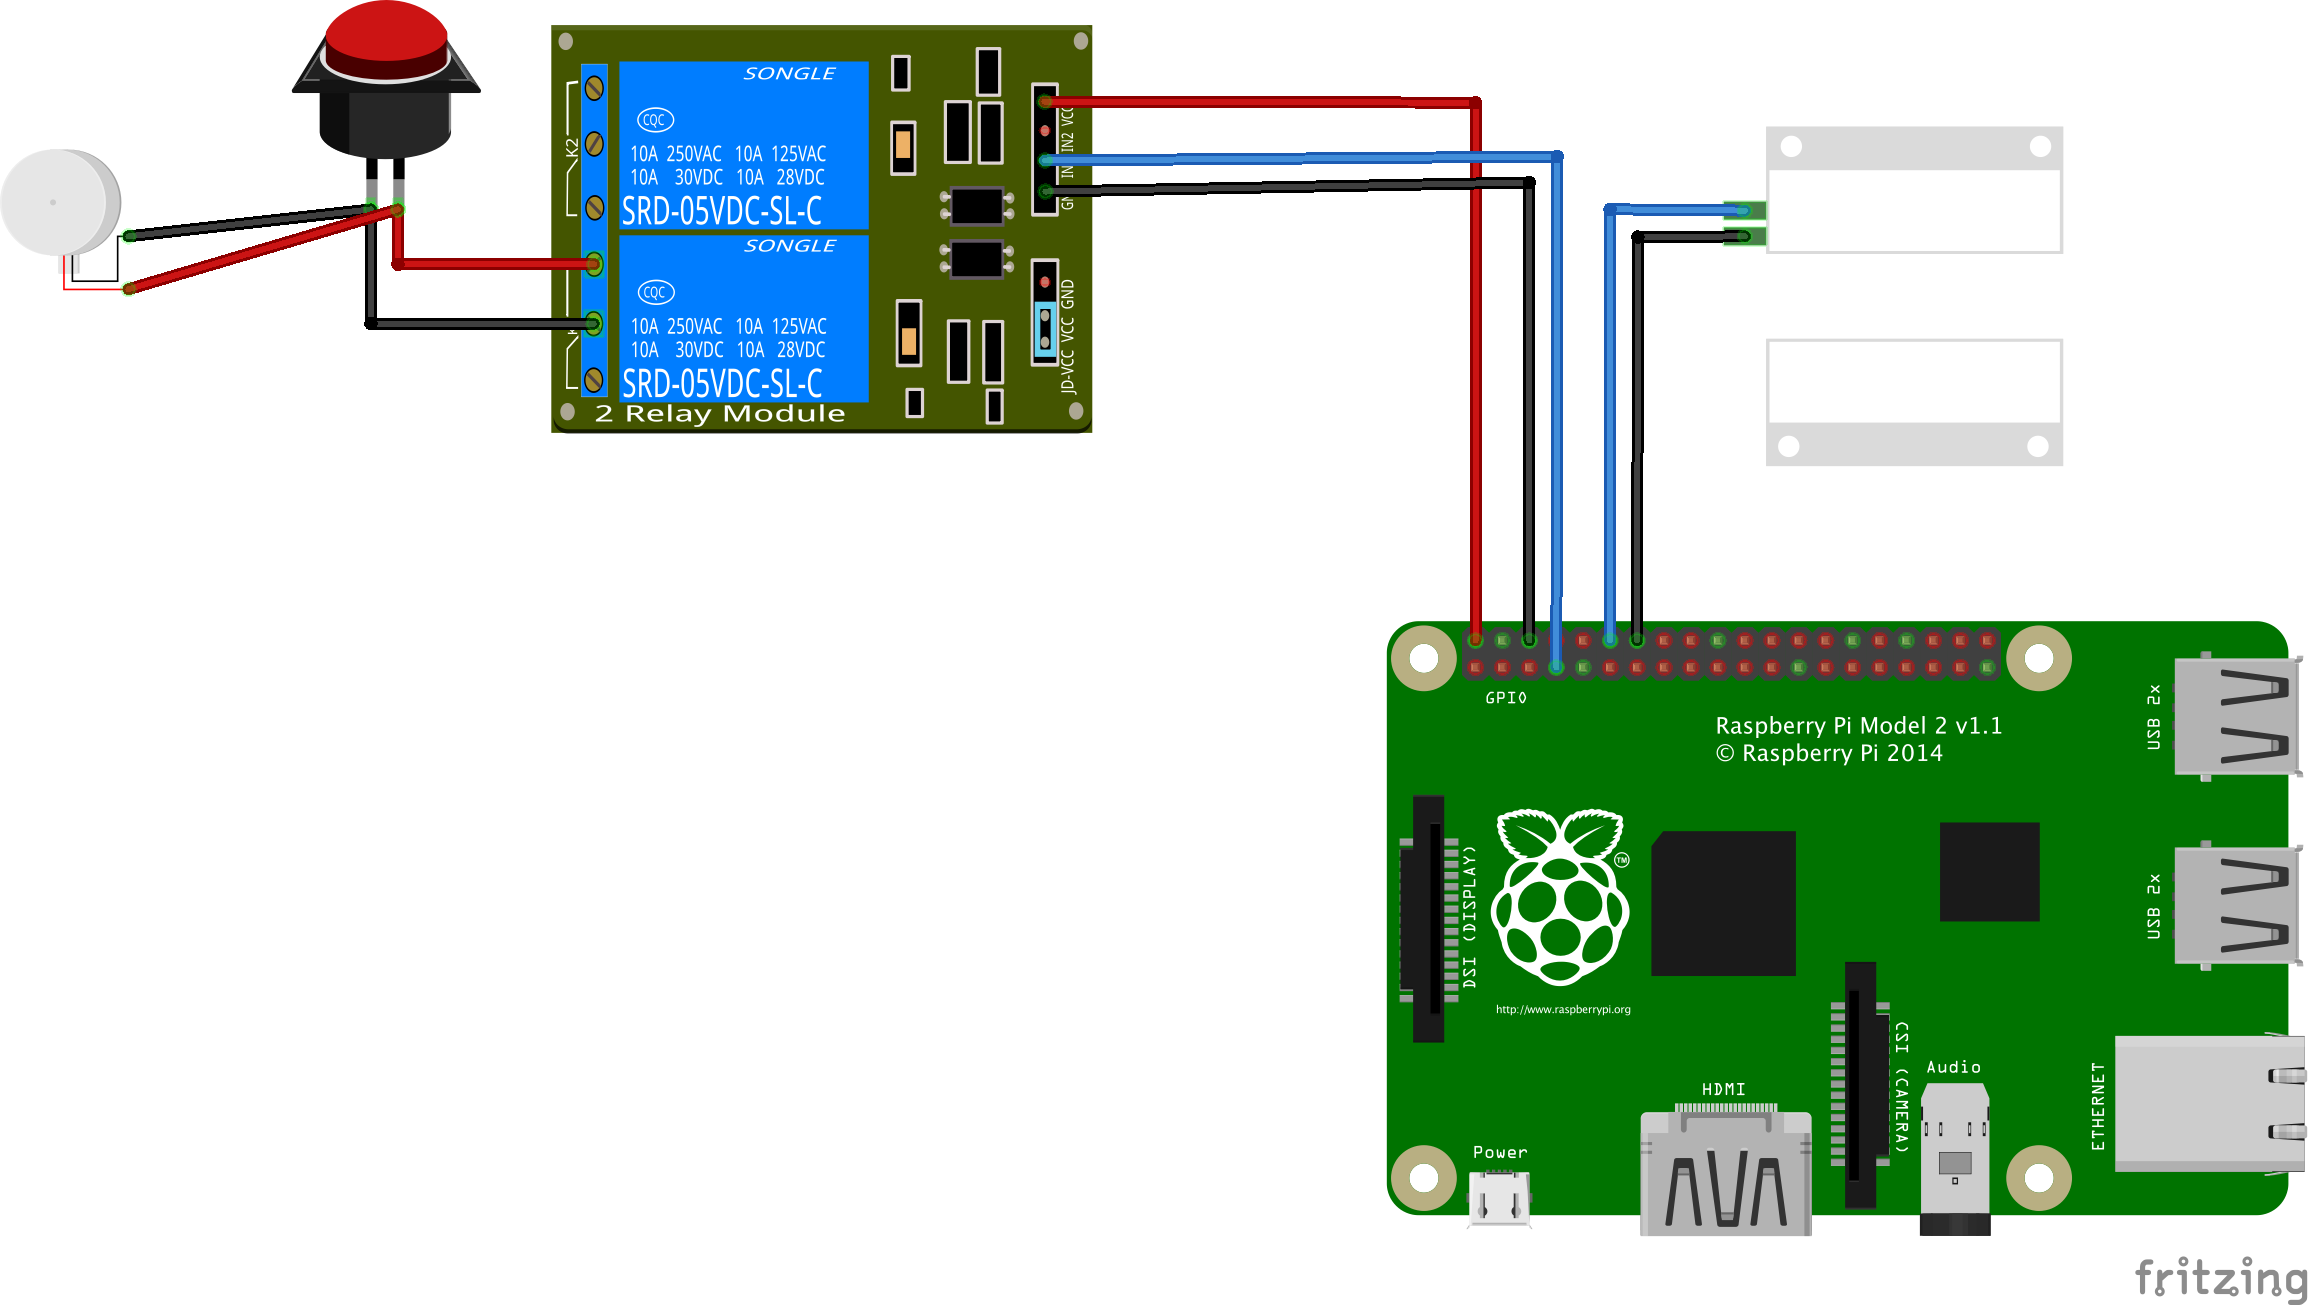
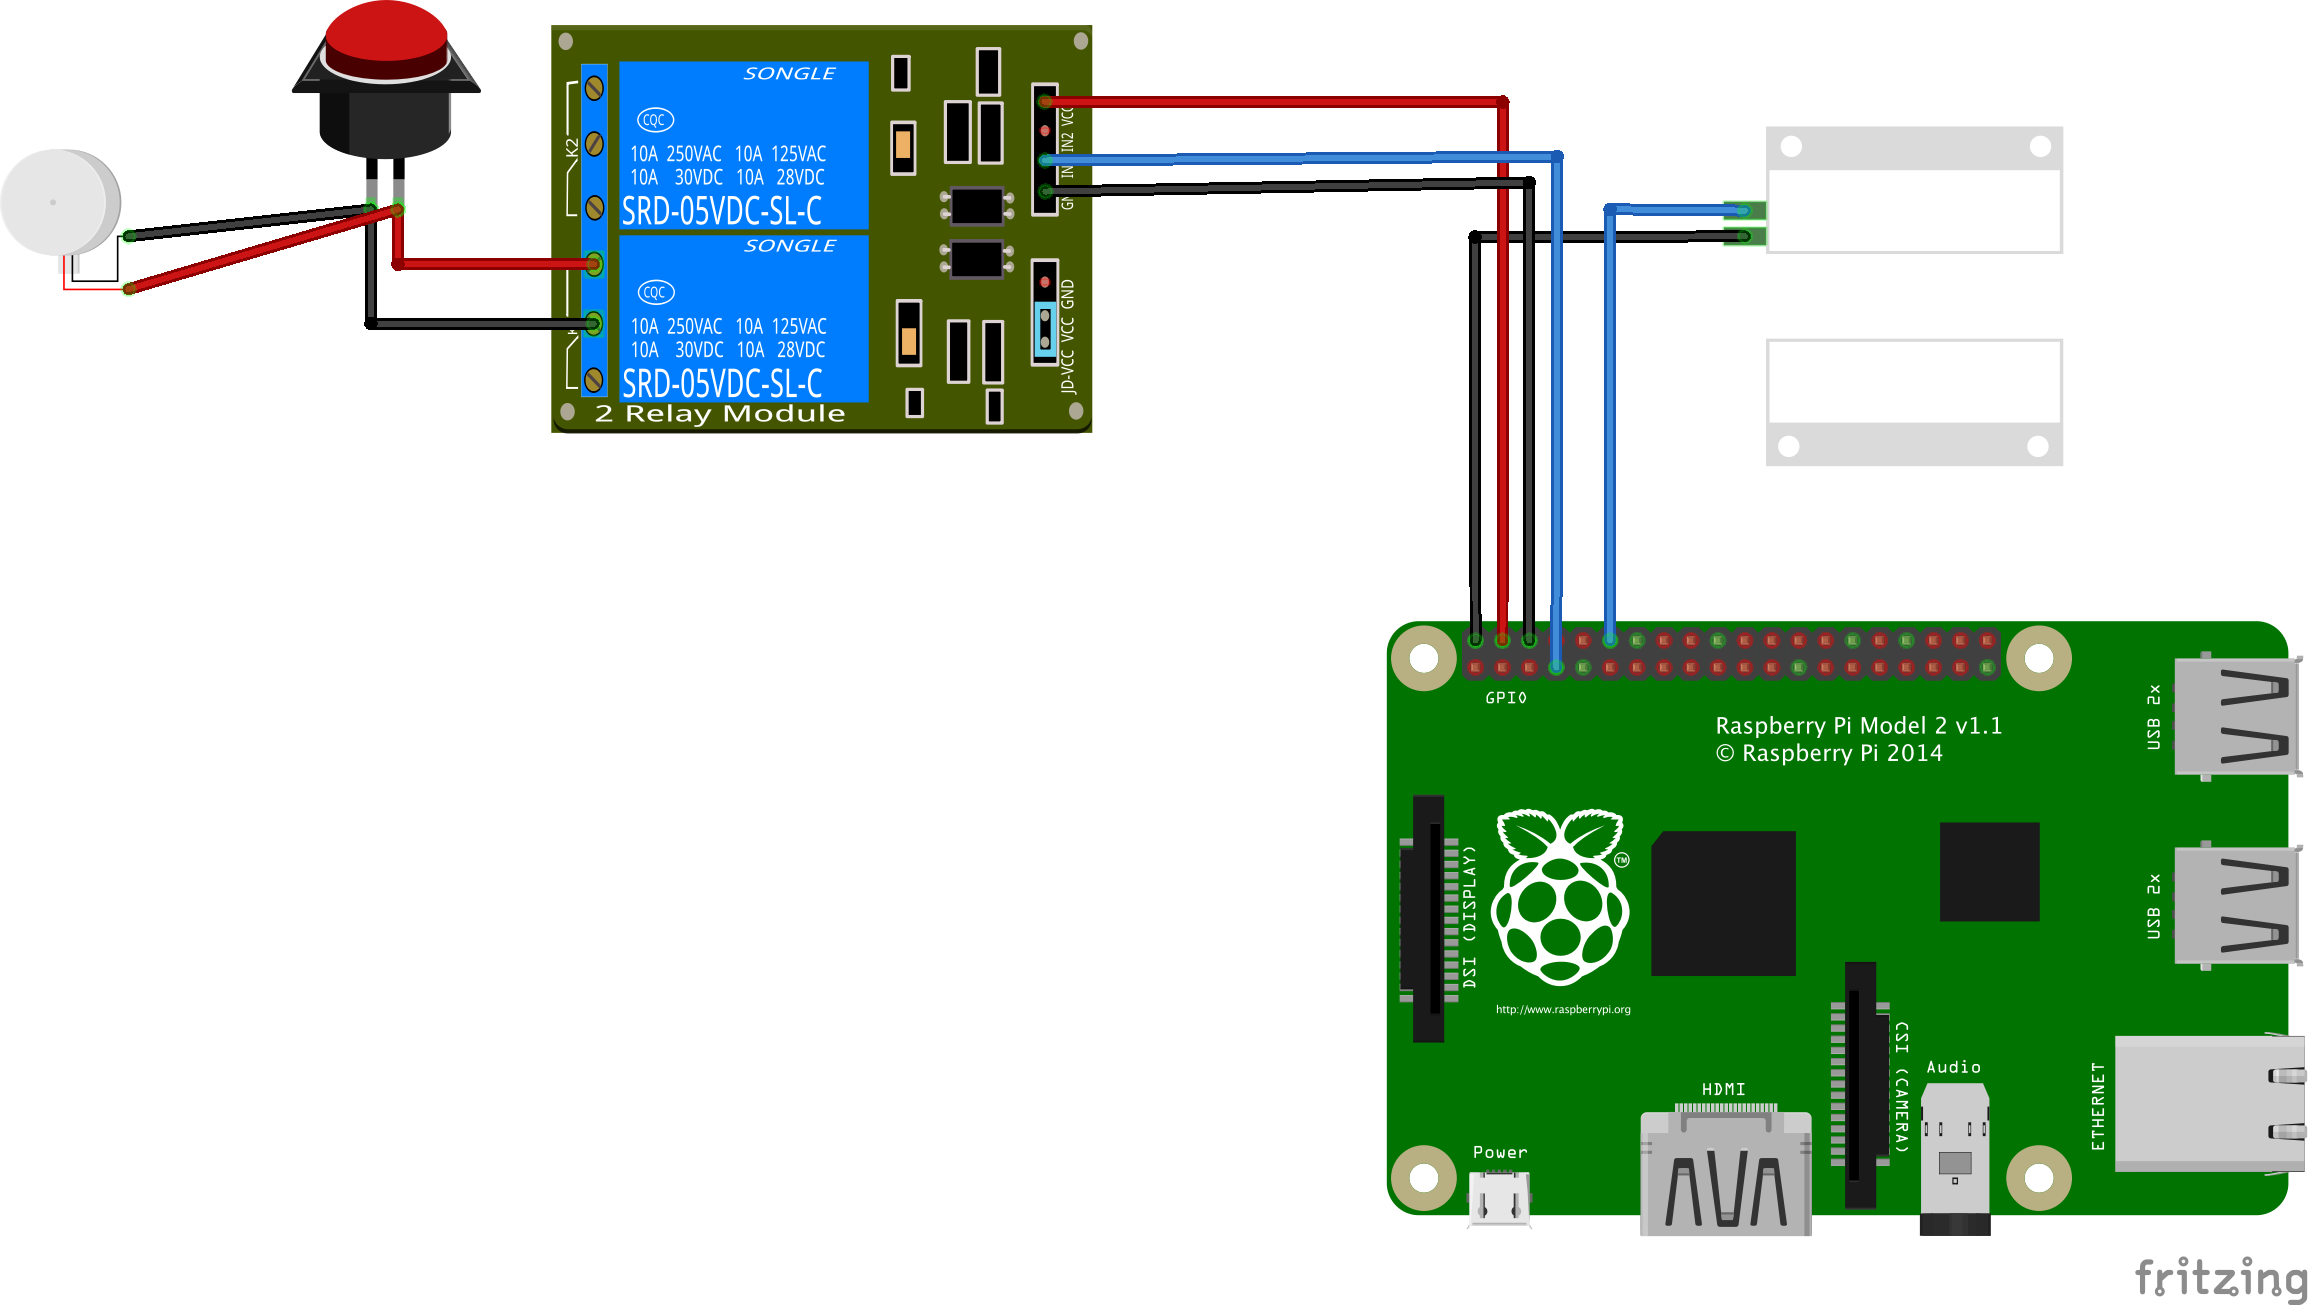
Add magnetic sensor to control open/closed state
update readme

add logging

read value of pin after change is detected

Pull up the pin when the switch is closed

The pins on the pi seem to have a pull down resistor for inputs

Changed region(s): [[0.6234, 0.0613, 0.7169, 0.4904]]

diff --git a/mqtt-switch/garage.mqtt.js b/mqtt-switch/garage.mqtt.js
@@ -7,6 +7,7 @@ const GpioFactory = require('./GpioFactory');
 const Gpio = GpioFactory.create();
 
 const garageButton = new Gpio(4, 'high');
+const magneticSensor = new Gpio(18, 'in', 'both');
 
 garageButton.depress = () => {
   garageButton.writeSync(Gpio.LOW);
@@ -22,7 +23,27 @@ const {
 
 const mqttClient = mqtt.connect(`mqtt://${MQTT_HOST}`, { clientId: MQTT_CLIENT_ID });
 
-let state = 'closed';
+const doorValue = magneticSensor.readSync();
+log('Initial magnetic sensor state', { doorValue });
+
+const determineDoorPosition = (pinValue) => pinValue === Gpio.HIGH ? 'closed' : 'open';
+
+let state = determineDoorPosition(doorValue);
+
+magneticSensor.watch((err, edge) => {
+  if (err) {
+    log(err.message);
+    throw err;
+  }
+
+  log('Magnetic switch changed', { edge });
+
+  magneticSensor.read((err, value) => {
+    log('magnetic switch value', { value });
+    state = determineDoorPosition(value);
+    sendStateUpdate();
+  });
+});
 
 const topicHandlers = {
   'garage/open': (message) => {
@@ -35,13 +56,6 @@ const topicHandlers = {
     sendStateUpdate();
 
     garageButton.depress();
-
-    // simulate door open after 5 seconds (would be listening to hardware)
-    setTimeout(() => {
-      log('garage door finished opening');
-      state = 'open';
-      sendStateUpdate();
-    }, 1000 * 11)
   },
   'garage/close': (message) => {
     if (state === 'closed' || state === 'closing') {
@@ -53,12 +67,6 @@ const topicHandlers = {
     sendStateUpdate();
 
     garageButton.depress();
-
-    setTimeout(() => {
-      log('garage door finished closing');
-      state = 'closed';
-      sendStateUpdate();
-    }, 1000 * 11);
   },
   'garage/ping': (message) => {
     log('received PING');

diff --git a/README.md b/README.md
@@ -2,18 +2,7 @@
 
 A nodejs server to open my garage from my couch.
 
-[setup](./raspberry-pi-setup.md)
+![connection diagram](./docs/wiring-diagram.png)
 
-Static ip: http://192.168.1.10
-
-## application setup
-
-1. clone the repo onto the pi (todo: make deployment config)
-2. install pm2: `sudo npm i -g pm2`
-3. `sudo setcap 'cap_net_bind_service=+ep' $(which node)`
-4. add pm2 startup config
-    ```
-    sudo env PATH=$PATH:/usr/local/bin pm2 startup systemd -u pi --hp /home/pi
-    ```
-5. `cd garage-remote && npm run build`
-6. `cd server && npm install && pm2 start ecosystem.config.js`
+Garage relay is connected to GPIO4.
+Magnetic switch sensor is connected to GPIO18.
